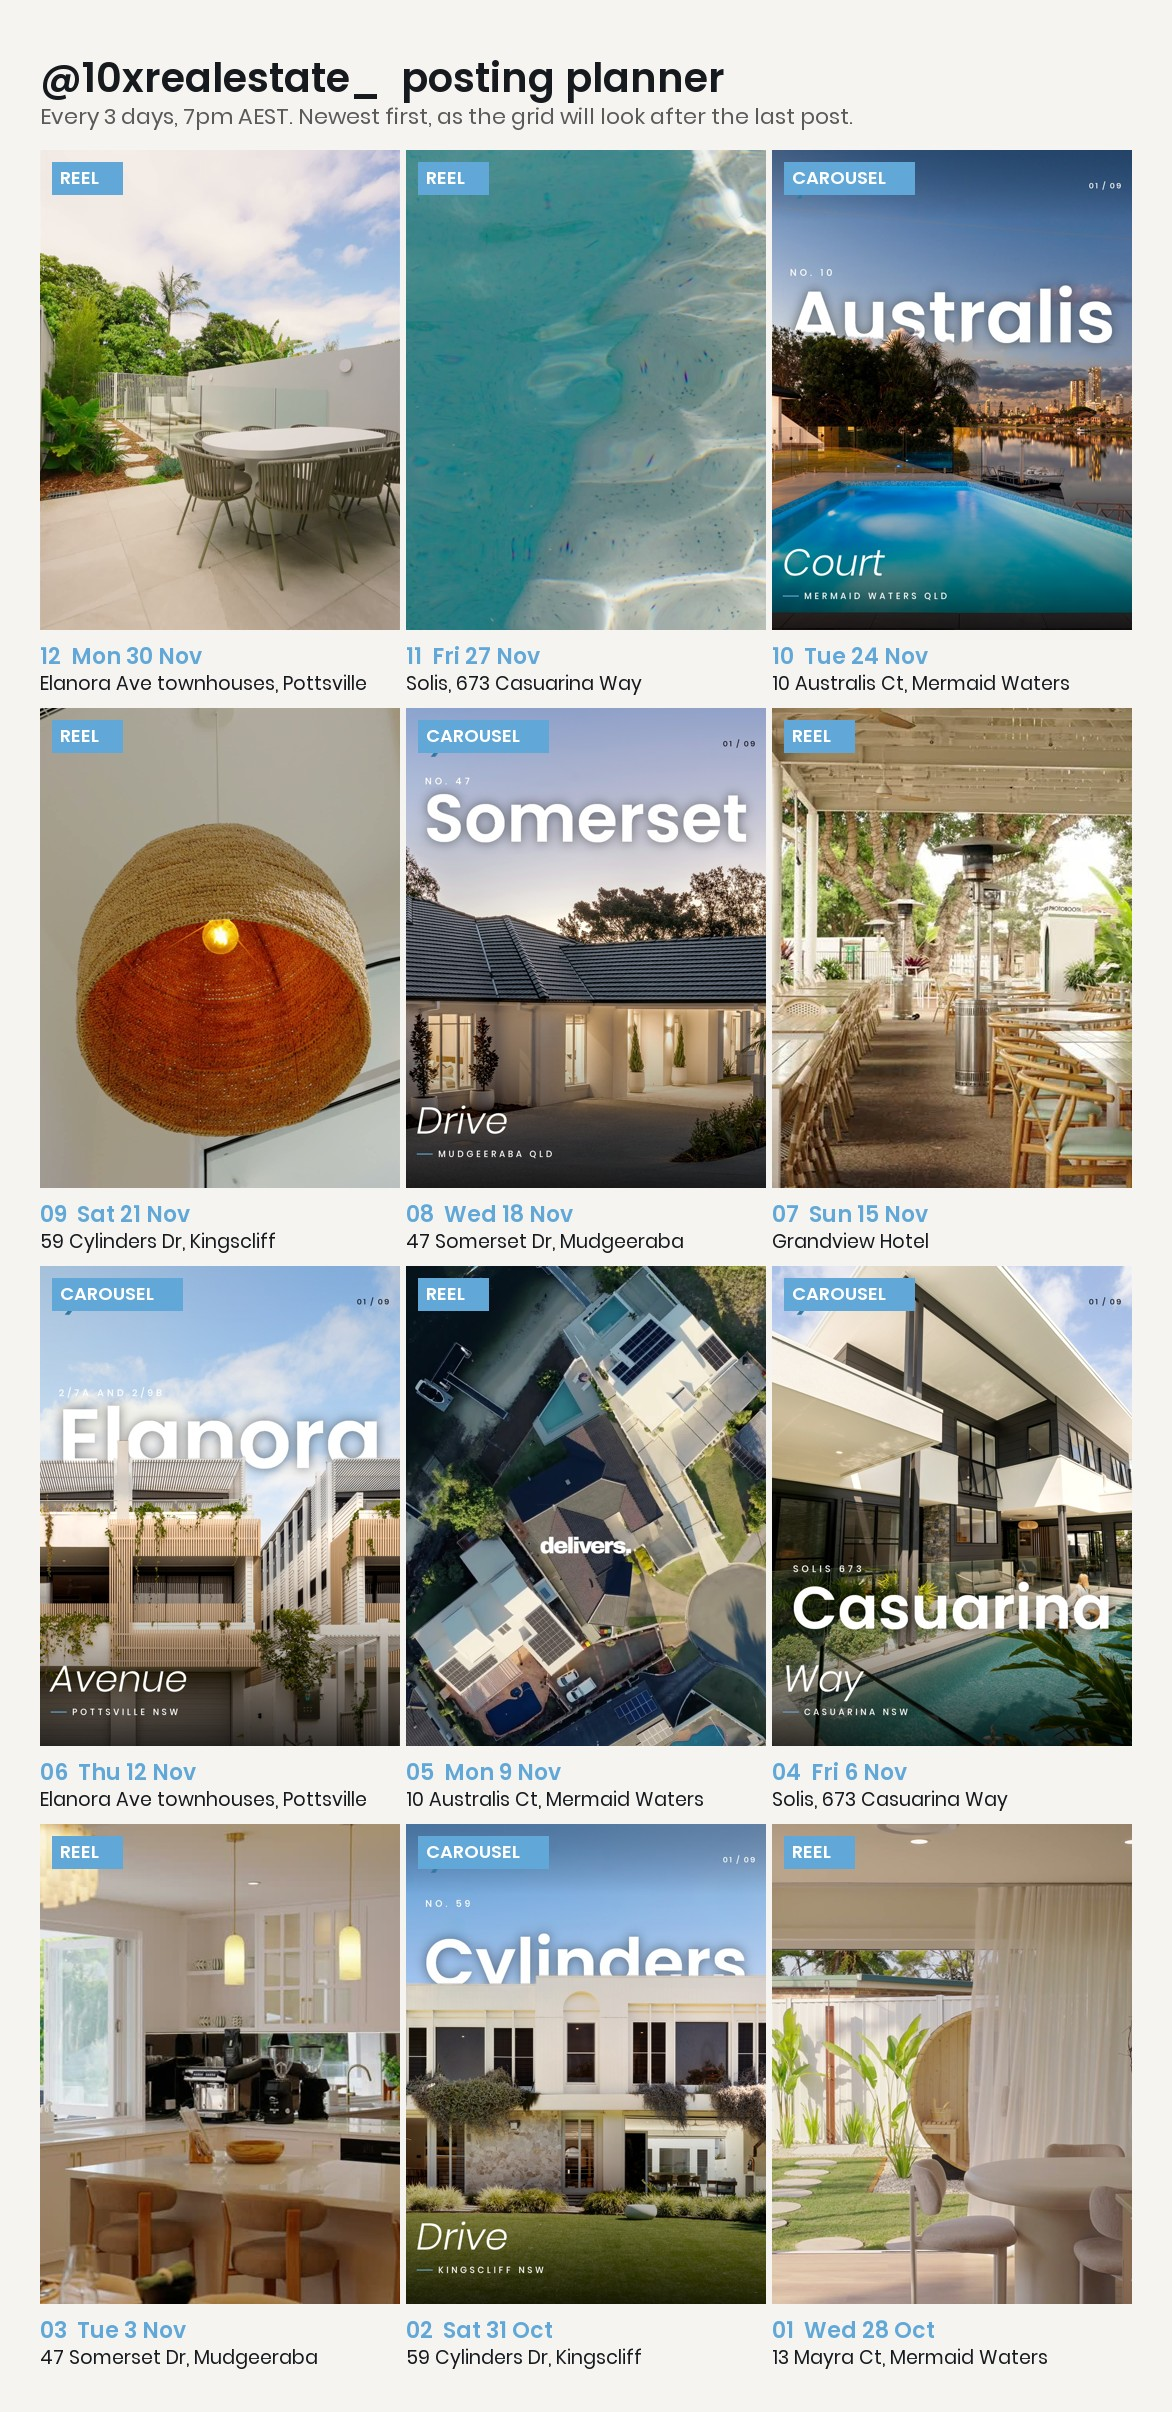
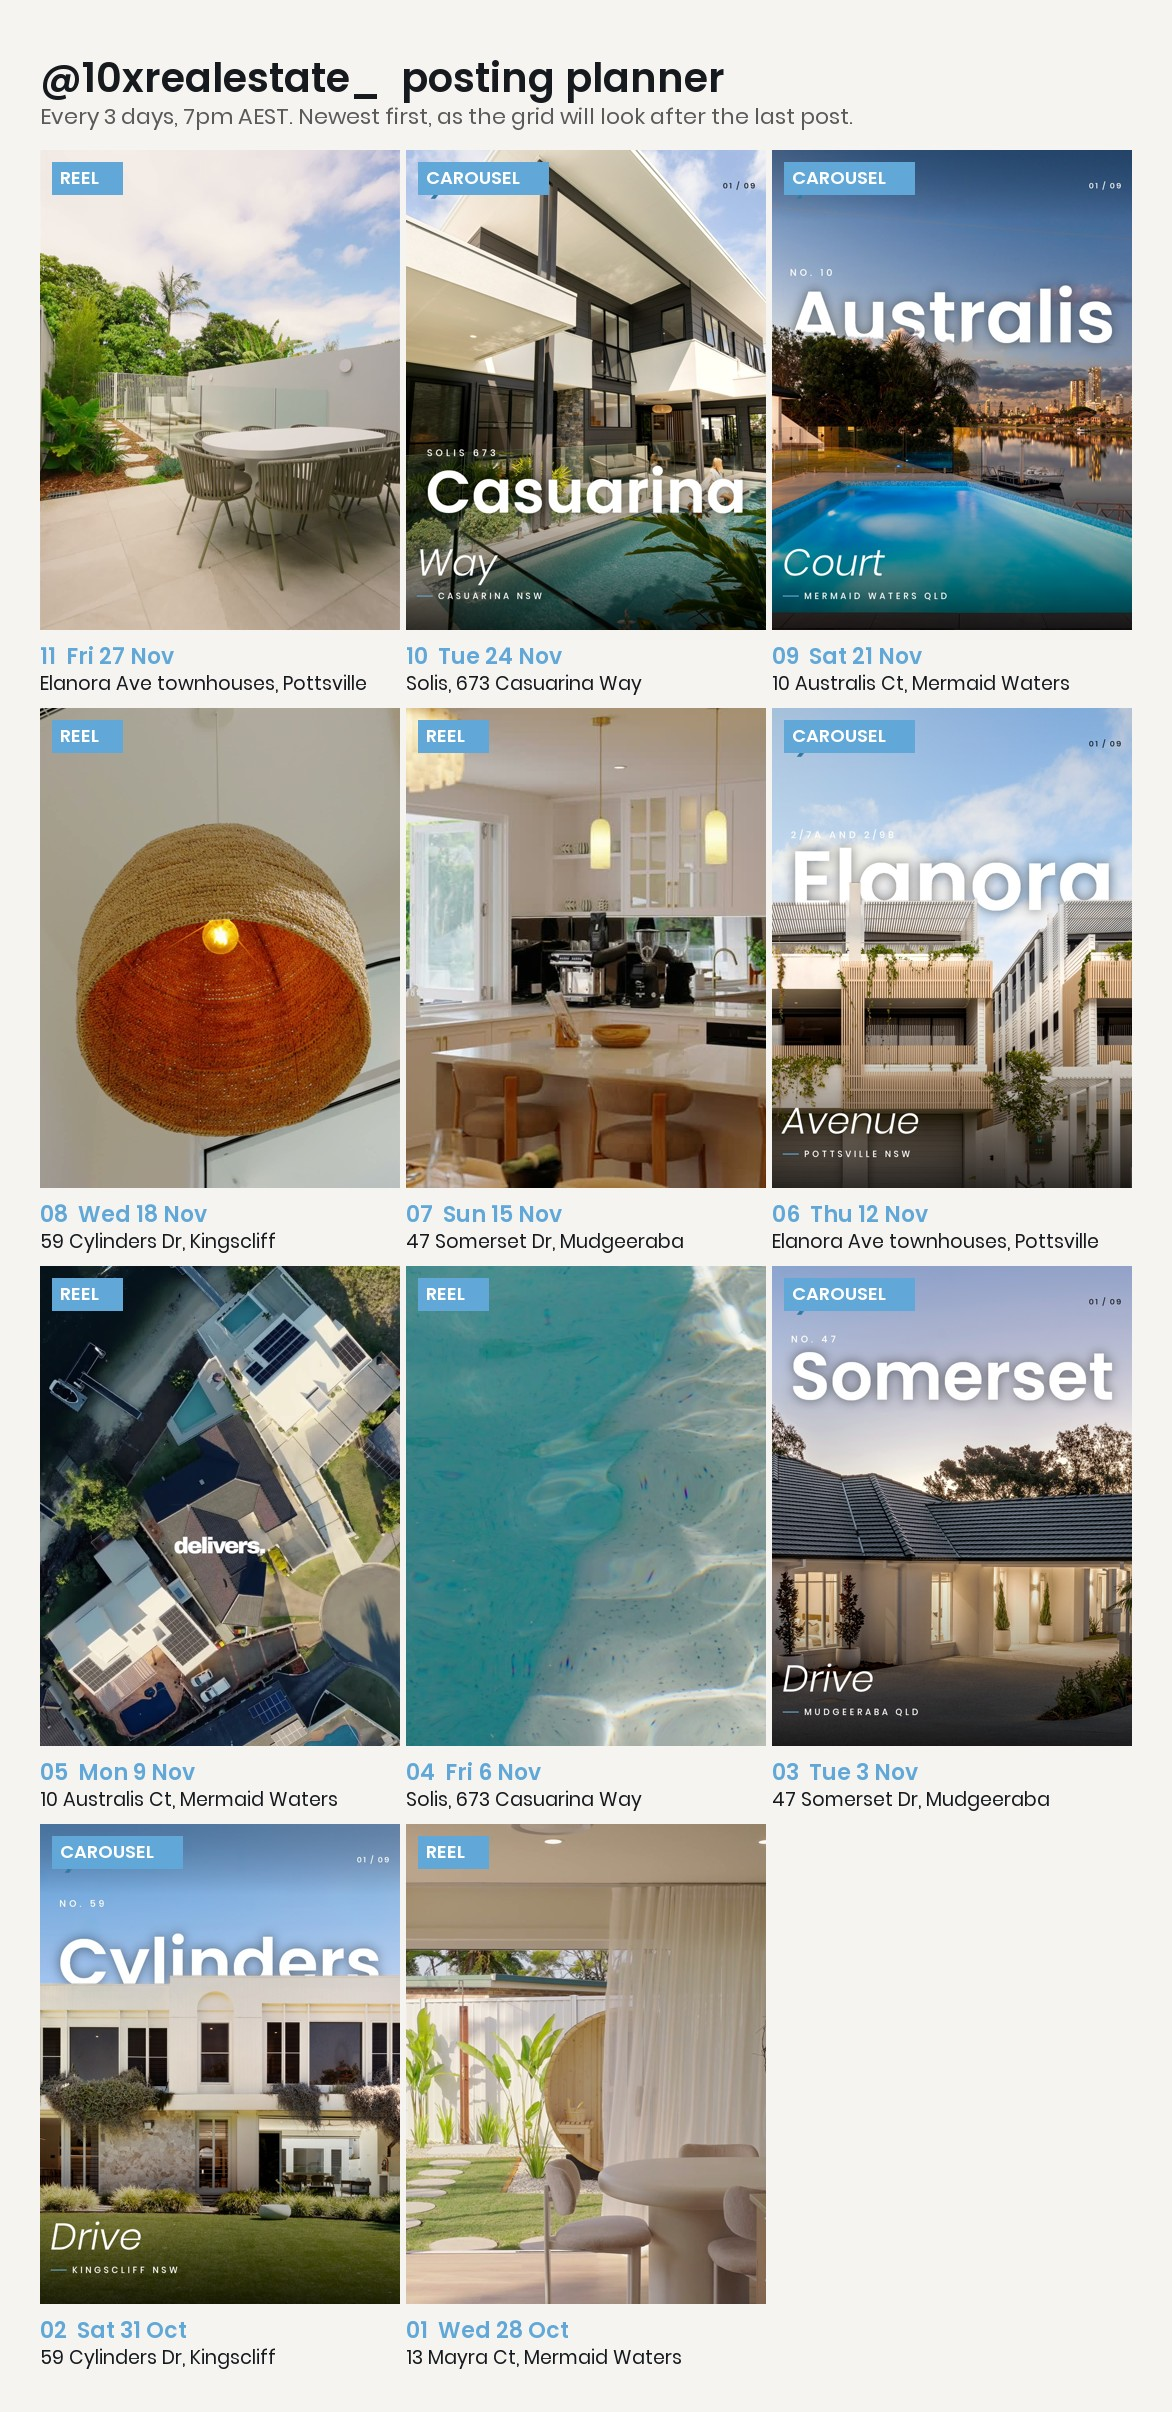
10xrealestate_: posting queue reordered for client spacing, captions for 11 posts, Ready to Post folders; construction deck scaffold (Broncos)

diff --git a/projects/10xrealestate-ig/planner/build_planner.py b/projects/10xrealestate-ig/planner/build_planner.py
@@ -7,18 +7,17 @@ from PIL import Image, ImageDraw, ImageFont, ImageOps
 HERE = os.path.dirname(os.path.dirname(os.path.abspath(__file__)))
 F = "/Users/10xhunter/Library/Fonts/Poppins-"
 START, EVERY = date(2026, 10, 28), 3
-POSTS = [  # listing, format, client, thumbnail (reel thumbs are stand-ins; real covers set in the app)
+POSTS = [  # clients alternate: Salt PM never back to back. Reel thumbs are stand-ins; real covers set in the app
     ("13 Mayra Ct, Mermaid Waters", "Reel", "Kollosche", "covers/mayra-ct-cover.jpg"),
     ("59 Cylinders Dr, Kingscliff", "Carousel", "Salt PM", "carousels/59-cylinders-dr/01.jpg"),
-    ("47 Somerset Dr, Mudgeeraba", "Reel", "Whitefox", "planner/somerset-reel.jpg"),
-    ("Solis, 673 Casuarina Way", "Carousel", "Salt PM", "carousels/solis-673-casuarina-way/01.jpg"),
+    ("47 Somerset Dr, Mudgeeraba", "Carousel", "Whitefox", "carousels/47-somerset-dr/01.jpg"),
+    ("Solis, 673 Casuarina Way", "Reel", "Salt PM", "planner/solis-reel.jpg"),
     ("10 Australis Ct, Mermaid Waters", "Reel", "Kollosche", "planner/australis-reel.jpg"),
     ("Elanora Ave townhouses, Pottsville", "Carousel", "Salt PM", "carousels/elanora-ave-townhouses/01.jpg"),
-    ("Grandview Hotel", "Reel", "Grandview", "planner/grandview-reel.jpg"),
-    ("47 Somerset Dr, Mudgeeraba", "Carousel", "Whitefox", "carousels/47-somerset-dr/01.jpg"),
+    ("47 Somerset Dr, Mudgeeraba", "Reel", "Whitefox", "planner/somerset-reel.jpg"),
     ("59 Cylinders Dr, Kingscliff", "Reel", "Salt PM", "planner/cylinders-reel.jpg"),
     ("10 Australis Ct, Mermaid Waters", "Carousel", "Kollosche", "carousels/10-australis-ct/01.jpg"),
-    ("Solis, 673 Casuarina Way", "Reel", "Salt PM", "planner/solis-reel.jpg"),
+    ("Solis, 673 Casuarina Way", "Carousel", "Salt PM", "carousels/solis-673-casuarina-way/01.jpg"),
     ("Elanora Ave townhouses, Pottsville", "Reel", "Salt PM", "planner/elanora-reel.jpg"),
 ]
 BLUE, INK, PAPER = (0x61, 0xA8, 0xD8), (22, 26, 30), (0xF6, 0xF4, 0xF0)

diff --git a/projects/10xrealestate-ig/build_carousels.py b/projects/10xrealestate-ig/build_carousels.py
@@ -299,7 +299,10 @@ def photos_for(listing):
 
 
 if __name__ == "__main__":
-    cfg = json.load(open(f"{HERE}/carousels.json"))
+    import sys  # optional: build_carousels.py <config.json> <out dir>, e.g. the construction page
+    if len(sys.argv) > 2:
+        HERE = os.path.abspath(sys.argv[2])
+    cfg = json.load(open(sys.argv[1] if len(sys.argv) > 1 else f"{HERE}/carousels.json"))
     for key, listing in cfg.items():
         build(key, listing, photos_for(listing))
         print("built", key)

diff --git a/projects/10xrealestate-ig/SCHEDULE.md b/projects/10xrealestate-ig/SCHEDULE.md
@@ -1,32 +1,31 @@
 # @10xrealestate_ posting schedule (v2, 2026-10-26)
 
-One post every 3 days at 7pm AEST, alternating reel and carousel and spreading clients out. Visual grid preview: [planner/PLANNER.jpg](planner/PLANNER.jpg). To regenerate it, edit POSTS in `planner/build_planner.py` and run it.
+One post every 3 days at 7pm AEST, with a different client between every Salt PM post (a Salt PM video went up 26 Oct). Only the last two posts are back-to-back Salt PM, because Salt has 6 of the 11 slots. Visual grid preview: [planner/PLANNER.jpg](planner/PLANNER.jpg). To regenerate it, edit POSTS in `planner/build_planner.py` and run it.
 
 | # | Date (7pm AEST) | Listing | Format | Client |
 |---|---|---|---|---|
 | 1 | Wed 28 Oct | 13 Mayra Ct, Mermaid Waters | Reel | Kollosche |
 | 2 | Sat 31 Oct | 59 Cylinders Dr, Kingscliff | Carousel | Salt PM |
-| 3 | Tue 3 Nov | 47 Somerset Dr, Mudgeeraba | Reel | Whitefox |
-| 4 | Fri 6 Nov | Solis, 673 Casuarina Way | Carousel | Salt PM |
+| 3 | Tue 3 Nov | 47 Somerset Dr, Mudgeeraba | Carousel | Whitefox |
+| 4 | Fri 6 Nov | Solis, 673 Casuarina Way | Reel | Salt PM |
 | 5 | Mon 9 Nov | 10 Australis Ct, Mermaid Waters | Reel | Kollosche |
 | 6 | Thu 12 Nov | Elanora Ave townhouses, Pottsville | Carousel | Salt PM |
-| 7 | Sun 15 Nov | Grandview Hotel | Reel | Grandview |
-| 8 | Wed 18 Nov | 47 Somerset Dr, Mudgeeraba | Carousel | Whitefox |
-| 9 | Sat 21 Nov | 59 Cylinders Dr, Kingscliff | Reel | Salt PM |
-| 10 | Tue 24 Nov | 10 Australis Ct, Mermaid Waters | Carousel | Kollosche |
-| 11 | Fri 27 Nov | Solis, 673 Casuarina Way | Reel | Salt PM |
-| 12 | Mon 30 Nov | Elanora Ave townhouses, Pottsville | Reel | Salt PM |
+| 7 | Sun 15 Nov | 47 Somerset Dr, Mudgeeraba | Reel | Whitefox |
+| 8 | Wed 18 Nov | 59 Cylinders Dr, Kingscliff | Reel | Salt PM |
+| 9 | Sat 21 Nov | 10 Australis Ct, Mermaid Waters | Carousel | Kollosche |
+| 10 | Tue 24 Nov | Solis, 673 Casuarina Way | Carousel | Salt PM |
+| 11 | Fri 27 Nov | Elanora Ave townhouses, Pottsville | Reel | Salt PM |
 
 ## Sources
 - Carousels: `carousels/<key>/01-09.jpg`, built by `build_carousels.py` from `carousels.json`.
-- Reels: `~/Documents/Posting for 10xRealestate/To Post/<listing>/`. The two exceptions are 47 Somerset (`~/Downloads/47 Somerset Drive - Whitefox.mp4`) and Grandview (`~/Documents/GRANDVIEW HOTEL.mp4`).
+- Reels: `~/Documents/Posting for 10xRealestate/To Post/<listing>/`. The two exceptions are 47 Somerset (`~/Downloads/47 Somerset Drive - Whitefox.mp4`) .
 - Reel thumbnails in `planner/` are stand-ins taken from 35% of the way through each video. Set the real covers in the IG app.
 
 ## Notes
 - 2/7A and 2/9B Elanora are identical townhouses, so they're merged into one carousel and one reel.
 - 13 Mayra Ct has no photos, so it's reel only.
 - 47 Somerset was already posted on @10xvisuals_ in July. It's fine on this page.
-- Grandview Hotel: confirm whether it's real estate or construction before it posts here.
+- Grandview Hotel is construction (Hunter, 26 Oct), so it moved to the construction page.
 - 120 Kennedys Lane (Salisbury), Shape and Broncos are construction jobs and belong on the construction page, not here.
 - Caption rules: mention the client and agents, no collab invites, no "picture yourself" hooks, no dot lists.
 - The videos haven't been QC'd.

diff --git a/projects/10xrealestate-ig/CAPTIONS.md b/projects/10xrealestate-ig/CAPTIONS.md
@@ -1,0 +1,47 @@
+# @10xrealestate_ captions (2026-10-26)
+
+Each post's media and caption.txt live in `~/Documents/Posting for 10xRealestate/Ready to Post/`.
+
+## 01 Wed 28 Oct 13 Mayra Ct (Reel)
+
+13 Mayra Court, Mermaid Waters. Filmed for @taylorkleinberg_kollosche and @thibaultparolini_kollosche at @kollosche_, and the light on the water did half the work for us 👀
+
+## 02 Sat 31 Oct 59 Cylinders Dr (Carousel)
+
+59 Cylinders Drive, Kingscliff. Arched doors, a stone fireplace and a pool you walk straight past on the way to the kitchen. Shot for @saltpropertymgt.
+
+## 03 Tue 3 Nov 47 Somerset Dr (Carousel)
+
+47 Somerset Drive, Mudgeeraba. Gabled ceilings, a pavilion over the pool and dusk doing the rest. Shot for @whitefoxrealestate.
+
+## 04 Fri 6 Nov Solis 673 Casuarina Way (Reel)
+
+Solis, 673 Casuarina Way. A lap pool running the length of the house and not a wasted metre around it. Another good one with @saltpropertymgt.
+
+## 05 Mon 9 Nov 10 Australis Ct (Reel)
+
+10 Australis Court, Mermaid Waters. Lake on one side, the Broadbeach skyline on the other. Filmed with @kollosche_.
+
+## 06 Thu 12 Nov Elanora Ave Pottsville (Carousel)
+
+Elanora Avenue, Pottsville. Two townhouses, one design, timber and linen top to bottom and the bush right outside every window. For @saltpropertymgt.
+
+## 07 Sun 15 Nov 47 Somerset Dr (Reel)
+
+47 Somerset Drive, Mudgeeraba, from the front gate to last light over the pool. What a build. Filmed for @whitefoxrealestate.
+
+## 08 Wed 18 Nov 59 Cylinders Dr (Reel)
+
+Back at 59 Cylinders Drive. Kingscliff light through white walls, nothing else needed. @saltpropertymgt
+
+## 09 Sat 21 Nov 10 Australis Ct (Carousel)
+
+10 Australis Court, Mermaid Waters. Bright rooms, a pool right on the water and the city across the lake. The full set for @kollosche_.
+
+## 10 Tue 24 Nov Solis 673 Casuarina Way (Carousel)
+
+Solis, 673 Casuarina Way. Black frames, white render and the garden pressing in on the pool. The full set for @saltpropertymgt.
+
+## 11 Fri 27 Nov Elanora Ave Pottsville (Reel)
+
+Elanora Avenue, Pottsville, on film. Treetop bedrooms and a plunge pool tucked into the garden. Shot for @saltpropertymgt.
